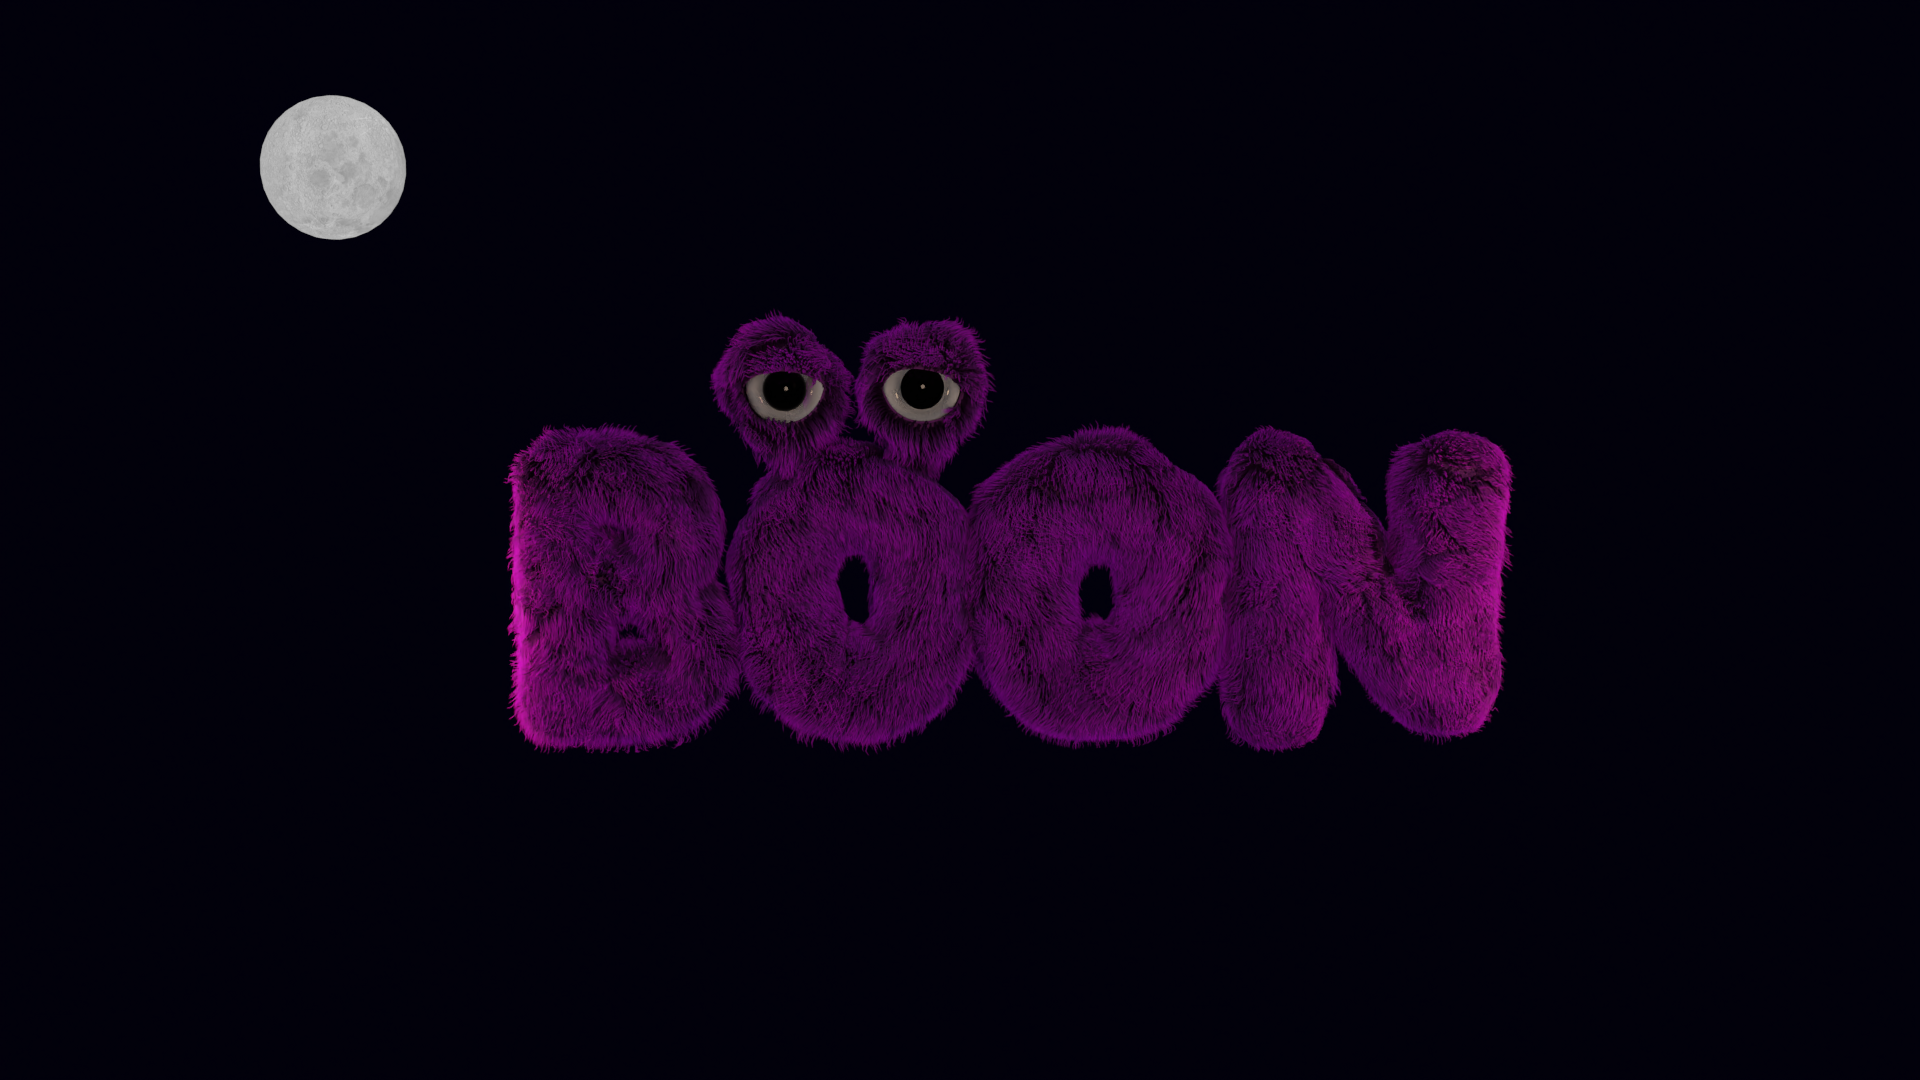
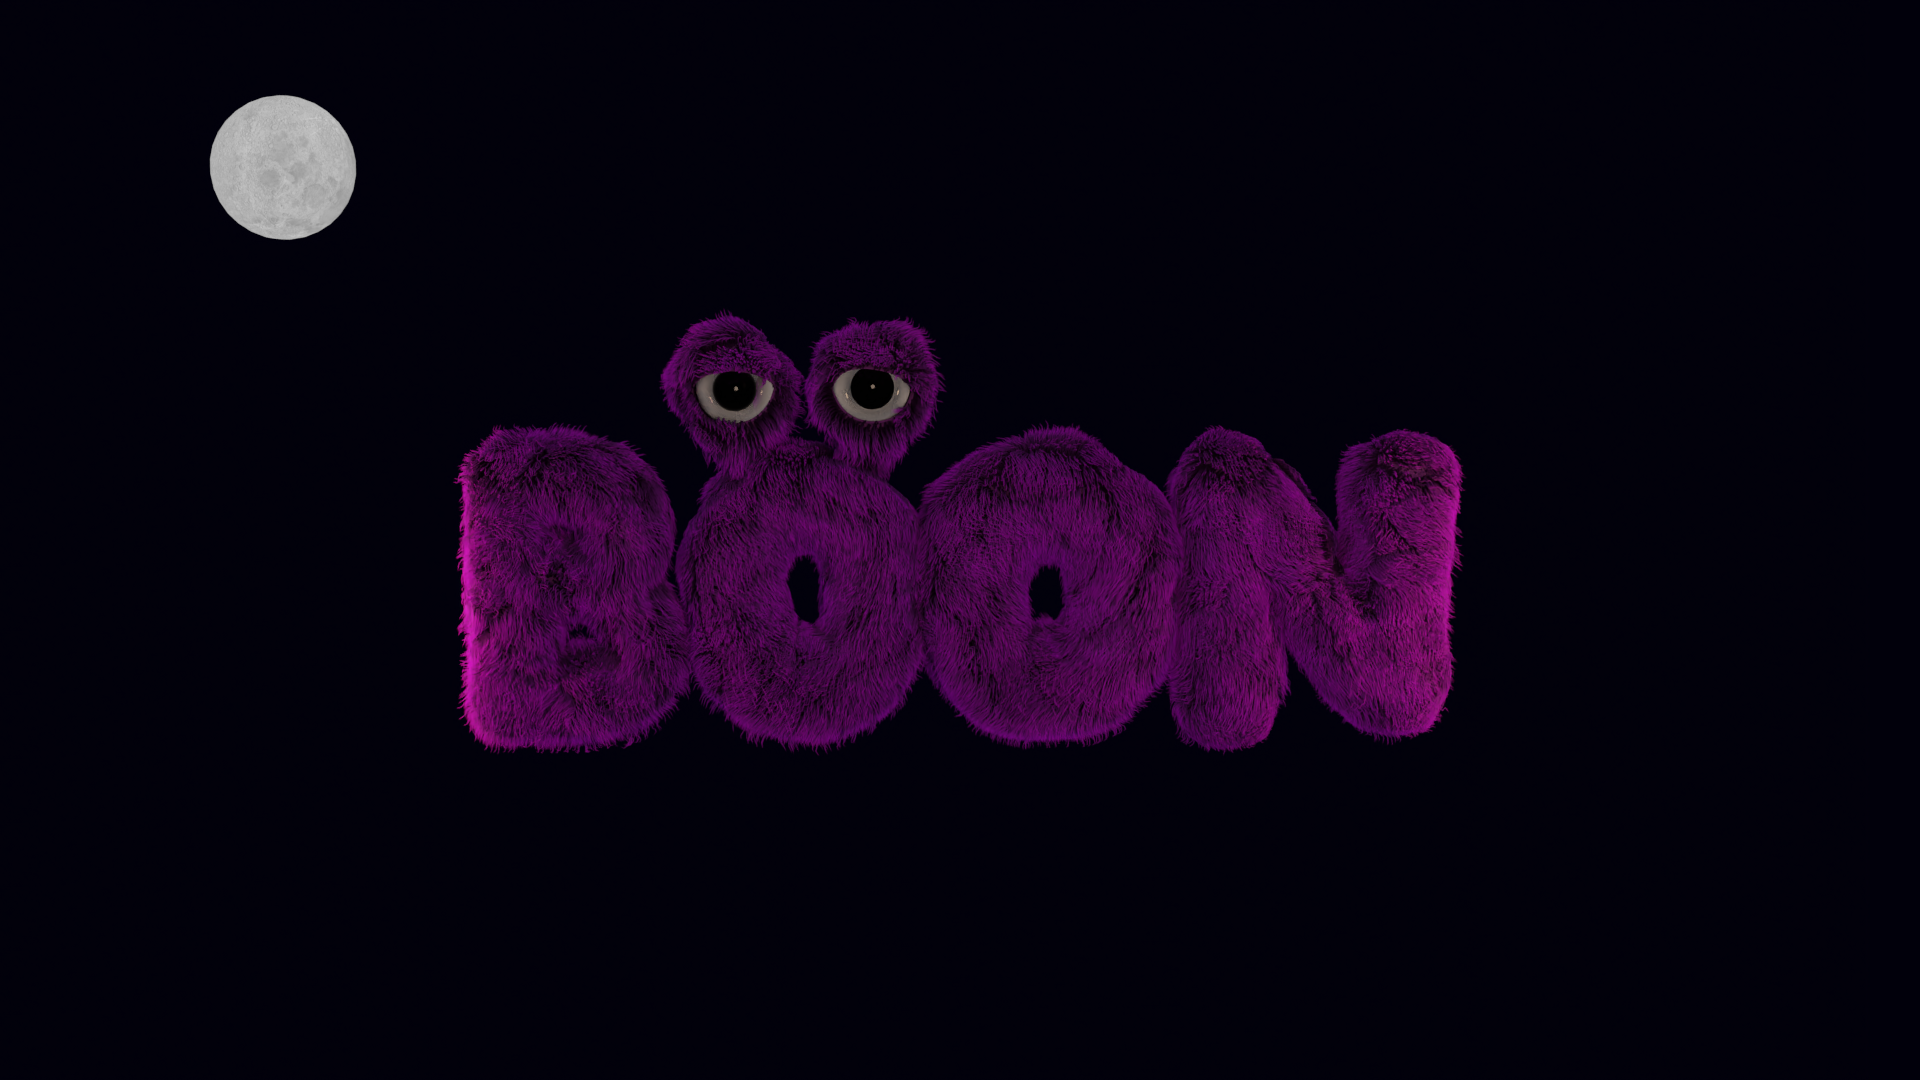
adjust landing pictures

Changed region(s): [[0.2188, 0.275, 0.8125, 0.7028], [0.0938, 0.0917, 0.2188, 0.2444]]

diff --git a/client/src/styles/Landing.css b/client/src/styles/Landing.css
@@ -1,16 +1,20 @@
 .landing-header {
     z-index: 1;
     position: relative;
-    height: 100%;
+    height: 90vh;
+    margin-top: 10vh;
     display: flex;
     flex-direction: column;
     align-items: center;
     justify-content: center;
+    text-align: center;
     color: #fff;
 }
 
 .offset {
-    margin: 1em;
+    padding: 0.2em;
+    display: flex;
+    align-items: center;
 }
 
 .slideshow {
@@ -85,10 +89,10 @@
     -webkit-box-shadow: 0px 0px 8px 4px;
     box-shadow: 0px 0px 8px 4px;
     border: solid 1px rgba(255, 255, 255, 0.1);
-    background-color: rgba(255, 255, 255, 0.7);
+    background-color: rgba(255, 255, 255, 0.6);
     border-radius: 8px;
-    margin: 1em;
-    padding: 0.5em 0.7em;
+    margin: 0.4em;
+    padding: 0.45em 0.7em;
     font-weight: bold;
     font-size: 1.2em;
     text-decoration: none;
@@ -99,7 +103,7 @@
 .btn-slideshow:hover {
     -webkit-box-shadow: 0px 0px 8px 8px;
     box-shadow: 0px 0px 8px 8px;
-    background-color: rgba(255, 255, 255, 0.8);
+    background-color: rgba(255, 255, 255, 0.7);
 }
 
 @keyframes buttonAnimation {

diff --git a/client/src/pages/Landing.js b/client/src/pages/Landing.js
@@ -8,12 +8,10 @@ import VolumeUpIcon from '@material-ui/icons/VolumeUp';
 const Landing = props => (
     <React.Fragment>
         <Container className="landing-header">
-            <Typography className="offset" variant="h4">
-                Something that is very helpful and improves the quality of life
-            </Typography>
+            <Typography variant="h4">Something that is very helpful and improves the quality of life</Typography>
             <Typography className="offset" variant="h5">
                 noun | UK <VolumeUpIcon />
-                /bu:n/ | US <VolumeUpIcon fontSize="medium" /> /bu:n/
+                /bu:n/ | US <VolumeUpIcon /> /bu:n/
             </Typography>
             <Link to={'/sprints'} className="btn-slideshow">
                 ENTER THE BOON
